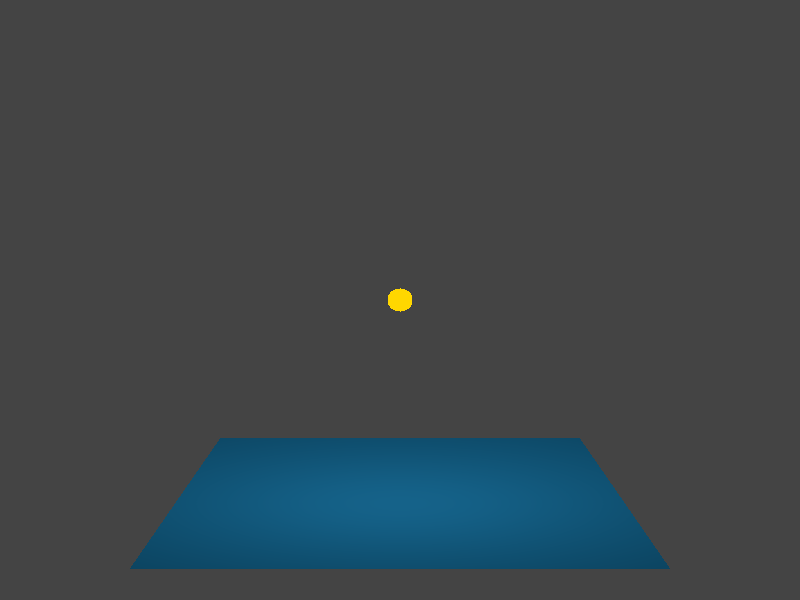
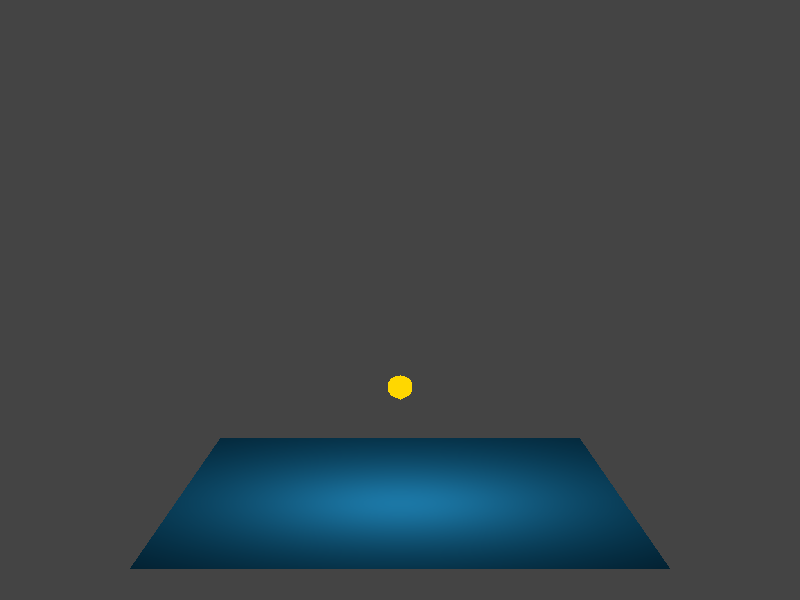
Updated the article

diff --git a/_posts/2026-07-11-introducing-point-lights.md b/_posts/2026-07-11-introducing-point-lights.md
@@ -7,22 +7,24 @@ authors: Sergey and Cursor
 
 At the beginning of the project, we introduced [directional light sources][post-cube-gets-light]. Now we're ready to add a different type of light source: _point light_. As we'll explore in this post, this addition requires us to make changes to the rasterizer on the lowest level, because for the point lights we need to map each pixel of the frame buffer to the coordinates in the world space. 
 
-[Version 0.1.5 on GitHub][version-0-1-5]{: .no-github-icon}
+[Version 0.1.6 on GitHub][version-0-1-6]{: .no-github-icon}
 
 A quick note on the version jump. The releases between the previous post and this one (0.1.2 through 0.1.4) were related to some house-keeping and the CI/CD pipeline. None of them changed the picture, so we skip straight from three directional lights to point lights.
 
 ## What you will see
 
-The torus scene is now lit by a _mix_ of light types: where [previous version][link-to-prev-post] used three directional lights of equal strength, the export now uses one directional light from above plus two _point lights_ from the corners. Here is the tumbling torus under the new setup:
+The torus scene is now lit by a _mix_ of light types: where the [previous version][post-three-lights] used three directional lights of equal strength, the export now uses one directional light from above plus two _point lights_ from the corners. Here is the tumbling torus under the new setup:
 
 <div style="text-align: center;">
-<video src="https://github.com/tindandelion/rust-3d-rasterizer/releases/download/0.1.5/scene.webm" alt="Torus lit by one directional and two point lights" autoplay loop muted playsinline
+<video src="https://github.com/tindandelion/rust-3d-rasterizer/releases/download/0.1.6/scene.webm" alt="Torus lit by one directional and two point lights" autoplay loop muted playsinline
   width="800" style="max-width: 100%;"></video>
 </div>
 
 To be fair, the difference from the earlier renders is very subtle: with three lights and the complex surface it's not that evident what has changed. To explore the difference between the directional and point light sources, we've added a small separate showcase: the additional binary `point-light` that allows us to play with light settings and see the lighting effects on a simple horizontal plane. 
 
 ## The difference between directional and point light sources
+
+A directional light would flood this flat plane evenly no matter where we placed the source. A point light behaves quite differently. In the three renders below the same point light is lowered step by step toward the plane, and the illumination collapses into an ever brighter, tighter pool right beneath it — a behaviour a directional light simply cannot produce. We explain _why_ the pool tightens in the sections below.
 
 <div class="still-compare">
 <figure>
@@ -61,38 +63,45 @@ Here is the crux of the milestone, and it is more about plumbing than about ligh
 
 That position has to be interpolated per pixel, exactly the way normals already were. Each triangle vertex knows its world position; as the rasterizer walks the scanlines it blends those positions across the triangle, so every fragment can compute its own $\mathbf{l}$ toward each point light.
 
-## What we are not doing yet: distance falloff
+## Distance falloff: lights that fade with range
 
-Real point lights also get dimmer the farther you are from them, following an inverse-square [_attenuation_][inverse-square] law. We deliberately left that out of this first pass. Our point light varies only in _direction_ with position, not in _intensity_ — a light one unit away and a light ten units away illuminate an aligned surface equally.
+There is one more thing a real point light does that a direction alone can't capture: it gets dimmer the farther you are from it. A bare bulb lights the table beneath it far more strongly than the far wall. That is _distance falloff_, and it is what makes the pool of light in the showcase tighten as the source descends.
 
-We did sketch how attenuation would slot in (a small distance-based multiplier applied to both the diffuse and specular terms, with directional lights pinned at 1.0), but chose to keep the first cut simple, as the plan asked. It becomes worth adding the moment a scene actually needs a light to feel local. So the ground-plane hotspot you see in the showcase is pure cosine falloff from the changing angle, not distance falloff.
+We model it with the classic polynomial [_attenuation_][inverse-square] curve. For a fragment at distance $d$ from the light, the contribution is scaled by:
+
+$$
+f(d) = \frac{1}{k_c + k_l\, d + k_q\, d^2}
+$$
+
+The three coefficients — constant, linear, and quadratic — dial the shape of the curve, from no falloff at all ($k_c = 1$, the rest zero) to a physically flavoured inverse-square drop dominated by $k_q$. Our export scenes lean on the quadratic term, which is exactly why the showcase images change so dramatically: as the light nears the plane the distance to the closest fragments shrinks, $f(d)$ spikes, and the light concentrates into a small, intense hotspot. Because the same factor multiplies both the diffuse and the specular terms, the whole hotspot brightens together rather than merely sliding the highlight around. A directional light keeps a falloff of exactly 1 — a source at infinity has no meaningful distance — so this behaviour is unique to point lights.
 
 ## Implementation
 
-The lighting types were reshaped around a single [`Light`][source-light] enum with two constructors, [`Light::directional`][source-light-directional] and [`Light::point`][source-light-point]; the old standalone `DirectionalLight` type retired into it. A private [`toward_light`][source-toward-light] helper hides the branch — it returns the stored direction for a directional light, or computes $\mathbf{p}_{\text{light}} - \mathbf{p}$ for a point light — so the diffuse and specular routines stay identical for both kinds.
+The lighting types were reshaped around a single [`Light`][source-light] type with two constructors, [`Light::directional`][source-light-directional] and [`Light::point`][source-light-point]; the old standalone `DirectionalLight` retired into it. A private [`factors`][source-factors] helper hides the branch — for a directional light it returns the stored direction and a falloff of 1; for a point light it computes both the direction $\mathbf{p}_{\text{light}} - \mathbf{p}$ and the distance falloff from that same displacement — so the diffuse and specular routines stay identical for both kinds and simply multiply by whatever falloff comes back.
 
 Carrying position through the rasterizer needed a small new geometry type, [`SurfacePoint`][source-surface-point], bundling a world position and a normal. It implements the arithmetic operators the scanline interpolator expects, so [`PhongShadedTriangle`][source-phong] now interpolates a whole `SurfacePoint` per pixel instead of just a normal. [`Material::shade`][source-shade] takes that `SurfacePoint` and hands it to each light.
 
-The export recipe in [`default_lights`][source-default-lights] changed to demonstrate the mix: one directional light toward $(0, 2, 0)$ at intensity 0.5, plus two point lights at $(1, 2, -1)$ and $(-1, -2, 1)$ at intensity 1.0 each — the same browser-derived positions as before, but two of them now interpreted as places rather than directions. The standalone [`point-light`][source-point-light-bin] binary renders the ground-plane demo.
+The falloff itself lives in a small [`DistanceFalloff`][source-distance-falloff] struct holding the three coefficients. The export recipe in [`default_lights`][source-default-lights] uses the mix: one directional light toward $(0, 2, 0)$ at intensity 0.5, plus two point lights at $(1, 2, -1)$ and $(-1, -2, 1)$ — the same browser-derived positions as before, but now interpreted as places rather than directions. Each point light carries a quadratic falloff and a boosted intensity of 3.0 to make up for the light it now loses to distance. The standalone [`point-light`][source-point-light-bin] binary renders the ground-plane demo.
 
 Two design notes worth remembering. First, the per-fragment view direction $\mathbf{t}$ is still a constant across the frame — under our orthographic camera the eye is effectively at infinity, so `toward_eye` remains $-\mathbf{camera.direction()}$ for every pixel, point light or not. That will have to change alongside perspective projection. Second, there is a genuine singularity when a point light sits exactly on a surface: $\mathbf{p}_{\text{light}} - \mathbf{p}$ becomes the zero vector and cannot be normalized. We know about it and left it as a loud panic rather than papering over it, since it only arises from a degenerate scene.
 
 ## What's next
 
-The two obvious follow-ons remain [perspective projection][perspective-projection] — still an optional stretch, and the piece that will finally make `toward_eye` vary per fragment — and, after that, a pass at aligning our shading equation more closely with the three.js reference. Distance attenuation is now a small, well-understood addition whenever a scene calls for a light that feels genuinely local.
+The two obvious follow-ons remain [perspective projection][perspective-projection] — still an optional stretch, and the piece that will finally make `toward_eye` vary per fragment — and, after that, a pass at aligning our shading equation more closely with the three.js reference.
 
 [post-three-lights]: {{site.baseurl}}/{% post_url 2026-06-19-three-directional-lights %}
 [post-cube-gets-light]: {{site.baseurl}}/{% post_url 2026-05-22-the-cube-gets-light %}#the-light-source-directional-light
-[version-0-1-5]: https://github.com/tindandelion/rust-3d-rasterizer/tree/0.1.5
-[source-light]: https://github.com/tindandelion/rust-3d-rasterizer/blob/0.1.5/src/lighting/light.rs#L10
-[source-light-directional]: https://github.com/tindandelion/rust-3d-rasterizer/blob/0.1.5/src/lighting/light.rs#L16
-[source-light-point]: https://github.com/tindandelion/rust-3d-rasterizer/blob/0.1.5/src/lighting/light.rs#L23
-[source-toward-light]: https://github.com/tindandelion/rust-3d-rasterizer/blob/0.1.5/src/lighting/light.rs#L44
-[source-surface-point]: https://github.com/tindandelion/rust-3d-rasterizer/blob/0.1.5/src/geometry/surface_point.rs#L10
-[source-phong]: https://github.com/tindandelion/rust-3d-rasterizer/blob/0.1.5/src/framebuffer/phong_shaded_triangle.rs#L28
-[source-shade]: https://github.com/tindandelion/rust-3d-rasterizer/blob/0.1.5/src/lighting.rs#L31
-[source-default-lights]: https://github.com/tindandelion/rust-3d-rasterizer/blob/0.1.5/src/lib.rs#L58
-[source-point-light-bin]: https://github.com/tindandelion/rust-3d-rasterizer/blob/0.1.5/src/bin/point-light.rs#L44
+[version-0-1-6]: https://github.com/tindandelion/rust-3d-rasterizer/tree/0.1.6
+[source-light]: https://github.com/tindandelion/rust-3d-rasterizer/blob/0.1.6/src/lighting/light.rs#L5
+[source-light-directional]: https://github.com/tindandelion/rust-3d-rasterizer/blob/0.1.6/src/lighting/light.rs#L55
+[source-light-point]: https://github.com/tindandelion/rust-3d-rasterizer/blob/0.1.6/src/lighting/light.rs#L62
+[source-factors]: https://github.com/tindandelion/rust-3d-rasterizer/blob/0.1.6/src/lighting/light.rs#L42
+[source-distance-falloff]: https://github.com/tindandelion/rust-3d-rasterizer/blob/0.1.6/src/lighting/light.rs#L11
+[source-surface-point]: https://github.com/tindandelion/rust-3d-rasterizer/blob/0.1.6/src/geometry/surface_point.rs#L10
+[source-phong]: https://github.com/tindandelion/rust-3d-rasterizer/blob/0.1.6/src/framebuffer/phong_shaded_triangle.rs#L28
+[source-shade]: https://github.com/tindandelion/rust-3d-rasterizer/blob/0.1.6/src/lighting.rs#L32
+[source-default-lights]: https://github.com/tindandelion/rust-3d-rasterizer/blob/0.1.6/src/lib.rs#L59
+[source-point-light-bin]: https://github.com/tindandelion/rust-3d-rasterizer/blob/0.1.6/src/bin/point-light.rs#L51
 [point-light]: https://en.wikipedia.org/wiki/Shading#Point_lighting
 [lambert]: https://en.wikipedia.org/wiki/Lambertian_reflectance
 [inverse-square]: https://en.wikipedia.org/wiki/Inverse-square_law
